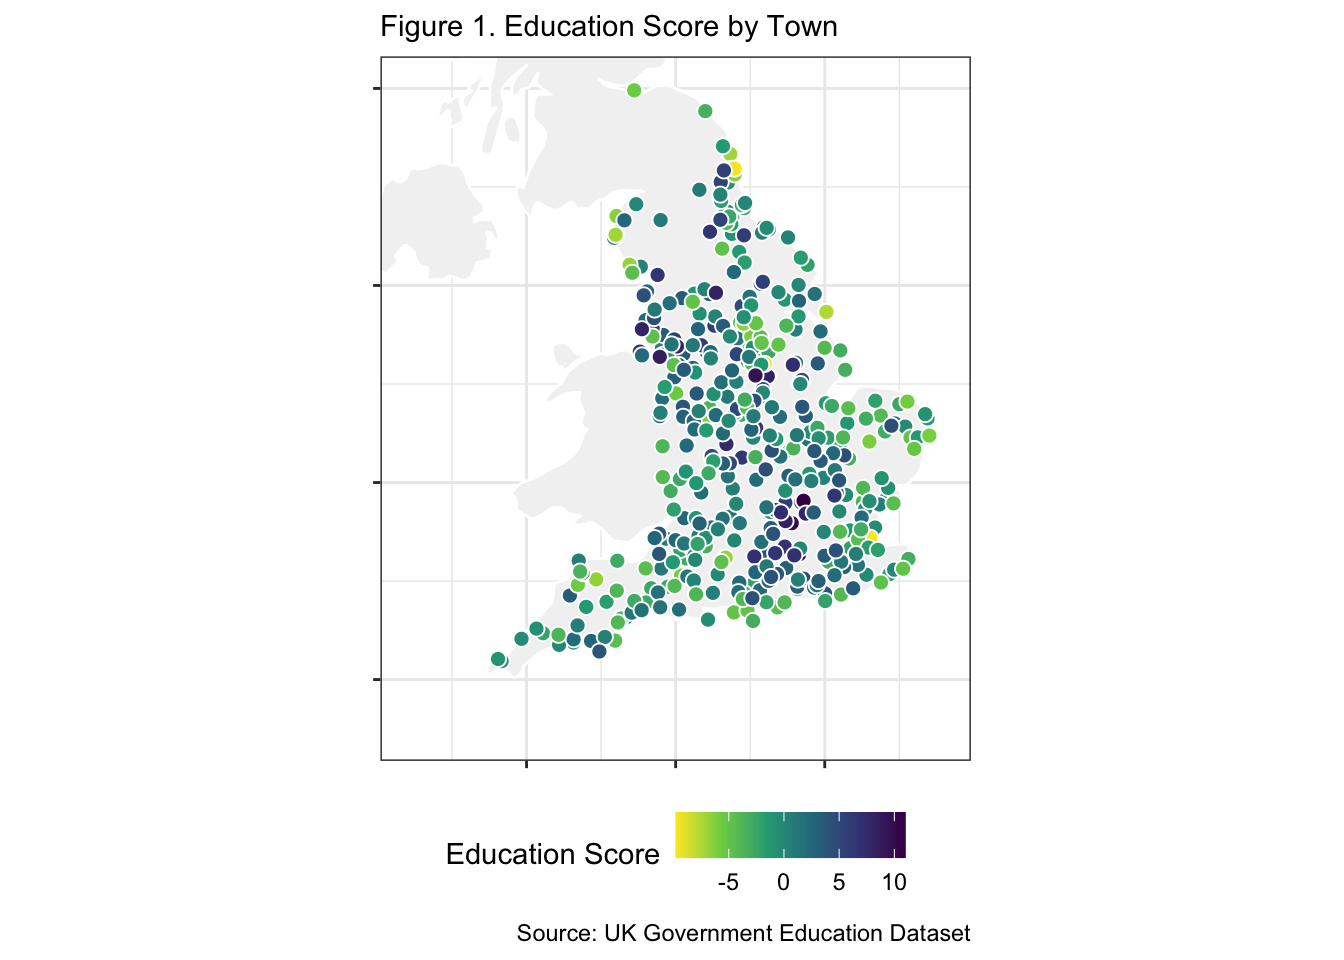
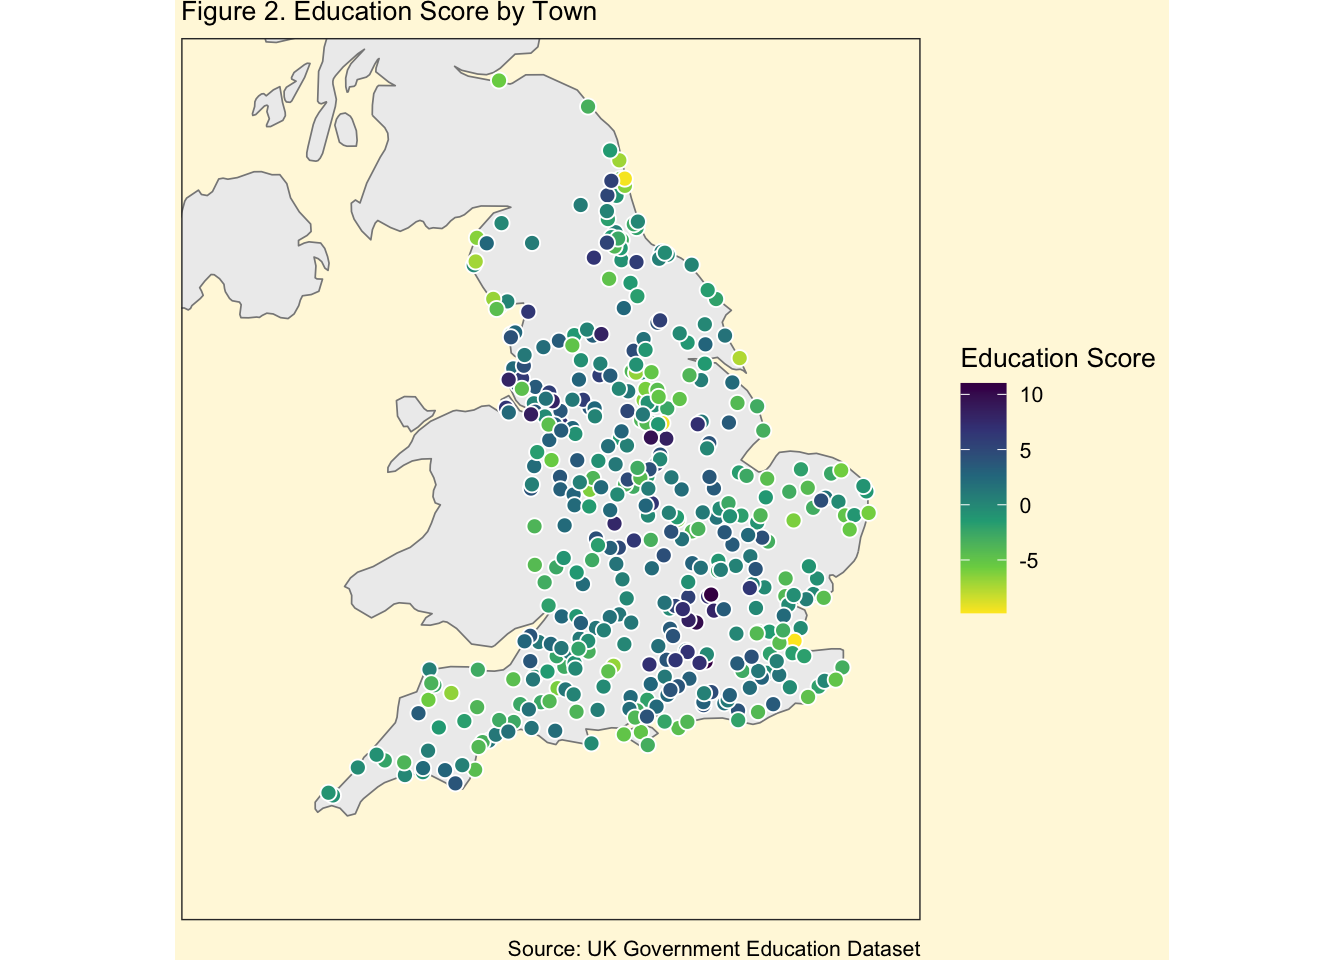
Updated the report with minor changes to map and design/styling

diff --git a/assignment3-paper.html b/assignment3-paper.html
@@ -91,7 +91,7 @@ ul.task-list li input[type="checkbox"] {
 2. Which town characteristics are most predictive of full-time higher education participation at age 19?</p>
 <p>The analysis was conducted in RStudio. Data cleaning and transformation were performed using the <code>tidyverse</code> suite, and visualizations were generated with <code>ggplot2</code>. The dataset originates from UK government sources and includes demographic, geographic, and education indicators such as population size, education scores, and age-based activity.</p>
 <p>After filtering rows with missing or placeholder values, relevant variables were standardized and numeric transformations were applied where necessary. Towns were grouped into four size categories: Cities, Large Towns, Medium Towns, and Small Towns. Correlation analysis and linear regression were used to explore the relationship between town size and education scores. Logistic regression and feature importance analysis were applied to identify predictors of full-time higher education participation at age 19.</p>
-<p><strong><a href="#tbl-dict" class="quarto-xref">Table&nbsp;1</a></strong> presents key variables used in the analysis. <strong><a href="#fig-size-distribution" class="quarto-xref">Figure&nbsp;1</a></strong> shows the distribution of towns by size category, providing context for how towns are represented in the dataset.</p>
+<p><a href="#tbl-dict" class="quarto-xref">Table&nbsp;1</a> presents key variables used in the analysis. <a href="#fig-size-distribution" class="quarto-xref">Figure&nbsp;1</a> shows the distribution of towns by size category, providing context for how towns are represented in the dataset.</p>
 <div class="cell">
 <div id="tbl-dict" class="cell quarto-float quarto-figure quarto-figure-center anchored">
 <figure class="quarto-float quarto-float-tbl figure">

diff --git a/styles.css b/styles.css
@@ -21,7 +21,7 @@ h1, h2, h3 {
 }
 
 .bounding-box {
-  background-color: #9ad3bc;
+  background-color: #84a48b;
   padding: 12px 18px;
   border-radius: 15px;
   box-shadow: 5px 5px 10px #00000030;
@@ -69,4 +69,20 @@ table, th, td {
   text-align: center;
   font-style: italic;
   color: #444;
+}
+
+.figure {
+  background-color: transparent !important;
+  box-shadow: none !important;
+  margin: 0 !important;
+  padding: 0 !important;
+  border: none !important;
+}
+
+.cell-output-display {
+  background-color: transparent !important;
+  margin: 0 !important;
+  padding: 0 !important;
+  box-shadow: none !important;
+  border: none !important;
 }
